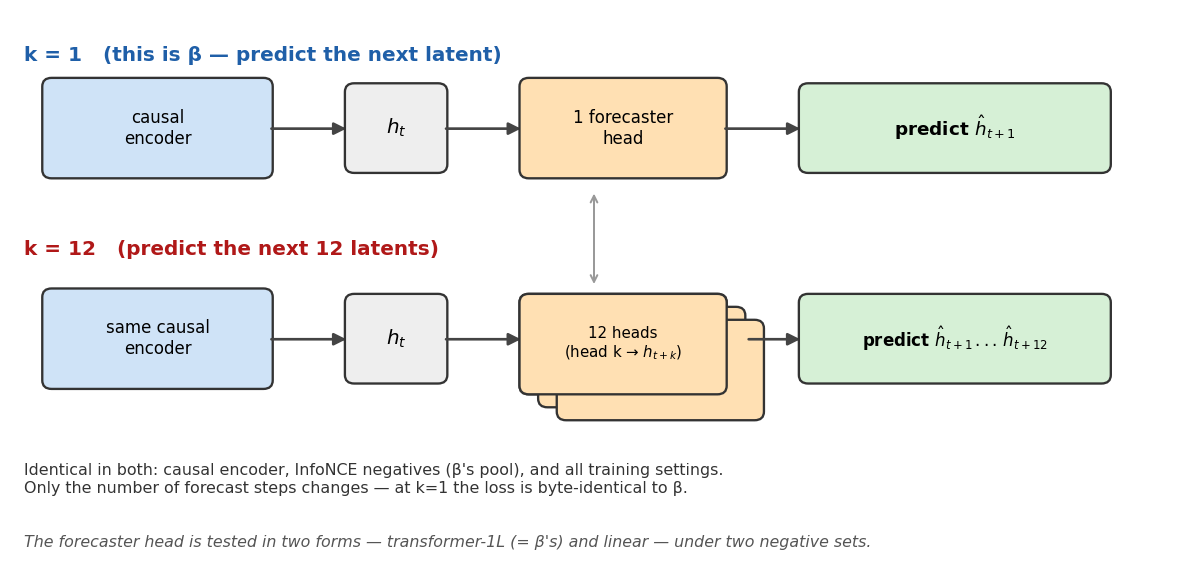
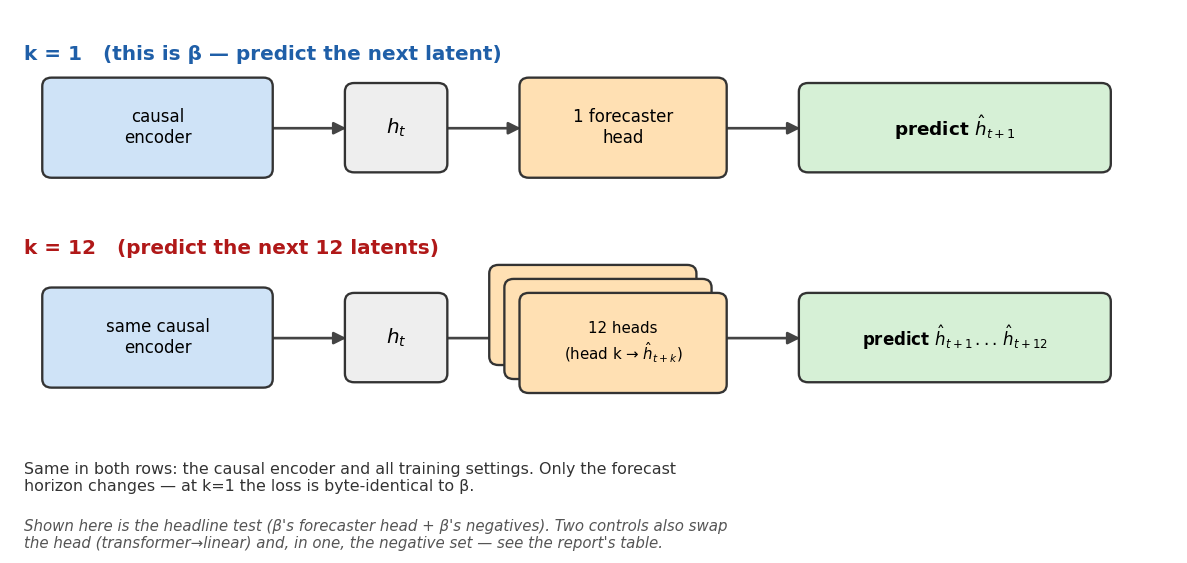
exp(#316): clarity pass — consistent arm naming, negatives defined upfront
Address review confusion:
- Define β-neg vs CPC-neg negatives up front, and state plainly the negatives
  are unchanged from β except in the two CPC-neg control arms (the report had
  implied negatives were always β's, which contradicted the CPC-neg label).
- Consistent arm naming everywhere: head / negatives / k.
- Drop the gm_summary bar chart (confusing: only k=12 bars, arms looked missing).
- k_trend: the 2nd seed is now a labelled seed-range on one point ("this cell
  run twice; every other point = 1 seed"), not a separate "CPC k=12" legend
  entry that only appeared at the last step.
- Fix experiment.png z-order (stacked head boxes) and its negatives note.
- Remove all speculation (the diffuse-latent→transfer hypothesis, etc.); keep
  protocol + measured results only. dim-usage stated as a plain measurement.
- Add a complete end table with every computed arm (full-97 small+6L head,
  triage-11) so all results are present; numbers re-verified against source.

diff --git a/experiments/2026-05-23_cpc_multistep_linear/scripts/plot_results.py b/experiments/2026-05-23_cpc_multistep_linear/scripts/plot_results.py
@@ -1,8 +1,8 @@
 #!/usr/bin/env python3
-"""#316 figures — does multi-step (k=12) improve β?
+"""#316 figure — does multi-step (k=12) improve β?
 
-  gm_summary.png   full-97 GM-MASE: every k=12 variant vs β / v11c (the answer).
-  k_trend.png      k=1 -> k=12 per forecaster family, with the 2-seed spread bar.
+  k_trend.png   k=1 -> k=12 for each forecaster setup, vs β / v11c.
+                The one cell run with 2 seeds shows its seed range.
 """
 import os
 import matplotlib; matplotlib.use("Agg")
@@ -30,68 +30,34 @@ def full(tag, seed="20260520"):
 
 v11c, beta = agg_gm(f"{V11C}/summary.txt"), agg_gm(f"{BETA}/summary.txt")
 
-# (label, backbone-tag, family, k). β is the transformer-family k=1 cell.
-ARMS = [
-    ("transformer head",            "bb_cpctrf_k12", "transformer, β-negs", 12),
-    ("linear head, β-negs",         "bb_linbn_k1",   "linear, β-negs",      1),
-    ("linear head, β-negs",         "bb_linbn_k12",  "linear, β-negs",      12),
-    ("linear head, CPC-negs",       "bb_lincn_k1",   "linear, CPC-negs",    1),
-    ("linear head, CPC-negs",       "bb_cpc_k12",    "linear, CPC-negs",    12),
+# family -> {k: gm}.  k=1 of the transformer family is β itself.
+FAMS = [
+    ("transformer head, β-negatives", "#1f77b4", {1: beta, 12: full("bb_cpctrf_k12")}),
+    ("linear head, β-negatives",      "#2ca02c", {1: full("bb_linbn_k1"), 12: full("bb_linbn_k12")}),
+    ("linear head, CPC-negatives",    "#d62728", {1: full("bb_lincn_k1"), 12: full("bb_cpc_k12")}),
 ]
-COLS = {"transformer, β-negs": "#1f77b4", "linear, β-negs": "#2ca02c", "linear, CPC-negs": "#d62728"}
 
-# ------------------------------------------------------------ gm_summary (answer)
-def fig_gm_summary():
-    rows = [(f"{lab}, k=12", full(tag)) for lab, tag, fam, k in ARMS if k == 12]
-    sb = full("bb_cpc_k12", "20260523")
-    if sb is not None: rows.append(("linear head, CPC-negs, k=12 (seed 2)", sb))
-    rows = [(l, g) for l, g in rows if g is not None]
-    if not rows: print("gm_summary: no evals yet"); return
-    rows.sort(key=lambda r: r[1])
-    labels, vals = [r[0] for r in rows], [r[1] for r in rows]
-    fig, ax = plt.subplots(figsize=(9.5, 0.62*len(rows)+1.8))
-    y = range(len(rows))
-    ax.barh(list(y), vals, color="#c43b3b", alpha=0.85)
-    for i, v in enumerate(vals): ax.text(v+0.006, i, f"{v:.3f}", va="center", fontsize=10)
-    ax.set_yticks(list(y)); ax.set_yticklabels(labels, fontsize=10)
-    ax.set_xlabel("full-97 GM-Relative MASE   (lower = better)")
-    lo = min(vals + [beta or 1.3, v11c or 1.3]); hi = max(vals)
-    ax.set_xlim(lo*0.97, hi*1.05)
-    if beta: ax.axvline(beta, color="#1f77b4", ls="-",  lw=2.0, label=f"β (k=1) = {beta:.3f}")
-    if v11c: ax.axvline(v11c, color="#9467bd", ls="--", lw=1.6, label=f"v11c (champion) = {v11c:.3f}")
-    ax.legend(loc="upper right", fontsize=9, framealpha=0.95)
-    ax.set_title("Does k=12 improve β?  No — every k=12 variant lands right of β", fontsize=12)
-    ax.invert_yaxis(); plt.tight_layout(); plt.savefig(f"{OUT}/gm_summary.png", dpi=120, bbox_inches="tight"); plt.close()
-    print(f"wrote gm_summary.png ({len(rows)} k=12 arms)")
-
-# ------------------------------------------------------------ k_trend
 def fig_k_trend():
-    fams = {}
-    for lab, tag, fam, k in ARMS:
-        g = full(tag)
-        if g is not None: fams.setdefault(fam, {})[k] = g
-    if beta is not None: fams.setdefault("transformer, β-negs", {})[1] = beta
-    fig, ax = plt.subplots(figsize=(7.5, 5.3))
-    for fam, pts in fams.items():
-        ks = sorted(pts)
-        ax.plot(ks, [pts[k] for k in ks], "o-", color=COLS.get(fam, "#555"), lw=2, ms=8, label=fam)
-    seedB = full("bb_cpc_k12", "20260523")
-    if seedB is not None and fams.get("linear, CPC-negs", {}).get(12) is not None:
-        sa = fams["linear, CPC-negs"][12]
-        ax.plot([12], [seedB], "D", color="#d62728", ms=10, mfc="white", mec="#d62728", mew=2,
-                label="linear, CPC-negs k=12 — 2nd seed", zorder=5)
-        ax.plot([12, 12], [min(sa, seedB), max(sa, seedB)], color="#d62728", lw=5, alpha=0.30, zorder=1)
-        ax.annotate(f"same arm, 2 seeds:\n{abs(seedB-sa):.2f} apart\n(bigger than every\nk=1→k=12 gap)",
-                    (12, (sa+seedB)/2), xytext=(7.4, (sa+seedB)/2+0.04), fontsize=8.5, color="#b01818",
-                    va="center", arrowprops=dict(arrowstyle="-", color="#d62728", alpha=0.5))
-    if beta: ax.axhline(beta, color="#1f77b4", ls=":", lw=1.4, label=f"β = {beta:.3f}")
-    if v11c: ax.axhline(v11c, color="#9467bd", ls=":", lw=1.4, label=f"v11c = {v11c:.3f}")
-    ax.set_xticks([1, 12]); ax.set_xlim(0.3, 12.7)
-    ax.set_xlabel("forecast steps  k"); ax.set_ylabel("full-97 GM-MASE  (lower = better)")
-    ax.set_title("k=12 is worse in all 3 families — but the seed spread (red)\nis larger than the k-effect, so only the direction is reliable", fontsize=11)
-    ax.grid(True, alpha=0.3); ax.legend(fontsize=8, loc="upper left")
+    fig, ax = plt.subplots(figsize=(7.8, 5.4))
+    for lab, col, pts in FAMS:
+        ks = sorted(k for k in pts if pts[k] is not None)
+        ax.plot(ks, [pts[k] for k in ks], "o-", color=col, lw=2.2, ms=8, label=lab)
+    # the one cell run with a 2nd seed: linear/CPC-negs, k=12 -> show its seed range
+    sa = FAMS[2][2][12]; sb = full("bb_cpc_k12", "20260523")
+    if sa is not None and sb is not None:
+        ax.plot([12], [sb], "o", color="#d62728", ms=8, zorder=4)
+        ax.plot([12, 12], [sa, sb], color="#d62728", lw=1.6, ls=":", zorder=3)
+        ax.annotate(f"this one cell was run twice:\nseeds at {sa:.2f} and {sb:.2f}\n(0.49 apart — bigger than\nany k=1→k=12 gap).\nEvery other point = 1 seed.",
+                    xy=(12, (sa+sb)/2), xytext=(6.3, 1.83), fontsize=8.5, color="#b01818",
+                    va="center", arrowprops=dict(arrowstyle="->", color="#d62728", alpha=0.7))
+    if beta: ax.axhline(beta, color="#1f77b4", ls=":", lw=1.3, label=f"β (= transformer, k=1) = {beta:.3f}")
+    if v11c: ax.axhline(v11c, color="#9467bd", ls=":", lw=1.3, label=f"v11c (champion) = {v11c:.3f}")
+    ax.set_xticks([1, 12]); ax.set_xlim(0.4, 12.8)
+    ax.set_xlabel("number of forecast steps  k"); ax.set_ylabel("GIFT-Eval GM-MASE  (97 configs; lower = better)")
+    ax.set_title("Going from k=1 to k=12 makes transfer worse in all three setups\n(but the seed noise is bigger than the effect — trust the direction, not the size)", fontsize=10.5)
+    ax.grid(True, alpha=0.3); ax.legend(fontsize=8.5, loc="upper left")
     plt.tight_layout(); plt.savefig(f"{OUT}/k_trend.png", dpi=120, bbox_inches="tight"); plt.close()
-    print(f"wrote k_trend.png ({len(fams)} families, seed2={seedB})")
+    print(f"wrote k_trend.png (seedA={sa}, seedB={sb})")
 
 if __name__ == "__main__":
-    fig_gm_summary(); fig_k_trend()
+    fig_k_trend()

diff --git a/experiments/2026-05-23_cpc_multistep_linear/scripts/diagram.py b/experiments/2026-05-23_cpc_multistep_linear/scripts/diagram.py
@@ -12,11 +12,11 @@ OUT = os.path.abspath(OUT)
 fig, ax = plt.subplots(figsize=(10, 4.8))
 ax.set_xlim(0, 10); ax.set_ylim(0, 5); ax.axis("off")
 
-def box(x, y, w, h, text, fc, ec="#333", fs=10, bold=False):
+def box(x, y, w, h, text, fc, ec="#333", fs=10, bold=False, zorder=2):
     ax.add_patch(FancyBboxPatch((x, y), w, h, boxstyle="round,pad=0.04,rounding_size=0.08",
-                                fc=fc, ec=ec, lw=1.4))
+                                fc=fc, ec=ec, lw=1.4, zorder=zorder))
     ax.text(x + w/2, y + h/2, text, ha="center", va="center", fontsize=fs,
-            fontweight="bold" if bold else "normal")
+            fontweight="bold" if bold else "normal", zorder=zorder + 0.1)
 
 def arrow(x1, y1, x2, y2):
     ax.add_patch(FancyArrowPatch((x1, y1), (x2, y2), arrowstyle="-|>",
@@ -40,23 +40,22 @@ box(0.3, 1.55, 1.9, 0.85, "same causal\nencoder", ENC)
 arrow(2.2, 1.97, 2.9, 1.97)
 box(2.9, 1.6, 0.8, 0.75, "$h_t$", "#eee", fs=12)
 arrow(3.7, 1.97, 4.4, 1.97)
-# stack of 12 heads
-for i in range(3):
-    box(4.4 + i*0.16, 1.5 - i*0.12, 1.7, 0.85, "" , HEAD)
-box(4.4, 1.5, 1.7, 0.85, "12 heads\n(head k → $h_{t+k}$)", HEAD, fs=9)
-arrow(6.3, 1.97, 6.8, 1.97)
+# stack of heads: two faint copies behind (up-left), labeled box in front
+for i in (2, 1):
+    box(4.4 - i*0.13, 1.5 + i*0.13, 1.7, 0.85, "", HEAD, zorder=1)
+box(4.4, 1.5, 1.7, 0.85, "12 heads\n(head k → $\\hat h_{t+k}$)", HEAD, fs=9, zorder=3)
+arrow(6.1, 1.97, 6.8, 1.97)
 box(6.8, 1.6, 2.6, 0.75, "predict $\\hat h_{t+1}\\,...\\,\\hat h_{t+12}$", PRED, fs=10, bold=True)
 
 # ---- shared note ----
-ax.annotate("", xy=(5.0, 3.35), xytext=(5.0, 2.45),
-            arrowprops=dict(arrowstyle="<->", color="#999", lw=1.2))
 ax.text(0.1, 0.55,
-        "Identical in both: causal encoder, InfoNCE negatives (β's pool), and all training settings.\n"
-        "Only the number of forecast steps changes — at k=1 the loss is byte-identical to β.",
+        "Same in both rows: the causal encoder and all training settings. Only the forecast\n"
+        "horizon changes — at k=1 the loss is byte-identical to β.",
         fontsize=9.5, color="#333")
-ax.text(0.1, 0.05,
-        "The forecaster head is tested in two forms — transformer-1L (= β's) and linear — under two negative sets.",
-        fontsize=9.5, style="italic", color="#555")
+ax.text(0.1, 0.02,
+        "Shown here is the headline test (β's forecaster head + β's negatives). Two controls also swap\n"
+        "the head (transformer→linear) and, in one, the negative set — see the report's table.",
+        fontsize=9.0, style="italic", color="#555")
 
 plt.tight_layout()
 plt.savefig(OUT, dpi=120, bbox_inches="tight")

diff --git a/experiments/2026-05-23_cpc_multistep_linear/RESULTS.md b/experiments/2026-05-23_cpc_multistep_linear/RESULTS.md
@@ -1,79 +1,91 @@
-# #316 — Does predicting 12 steps ahead beat predicting 1?
+# #316 — Does predicting 12 steps ahead (k=12) beat 1 step (k=1)?
 
-**No.** Every 12-step variant transfers worse than β, and none of the seed noise
-changes that. The one solid mechanism: 12-step prediction makes the latent
-*diffuse* (uses ~10× more dimensions), not richer.
+**No.** Every k=12 backbone we trained transfers worse than β (k=1). The exact
+gap is smaller than the seed-to-seed noise, so the *direction* is reliable, the
+*size* is not.
 
 ![experiment](plots/experiment.png)
 
-## Question
+## What was tested
 
-β's forecaster predicts the **next** latent (k=1). Contrastive Predictive Coding
-(van den Oord 2018) predicts **several** steps ahead, on the theory that it packs
-more forecastable structure into the latent. Holding β's encoder, negatives, and
-training fixed, does predicting **k = 12** ahead improve transfer?
+β's forecaster predicts the **next** latent (**k=1**). We test predicting
+**k=12** ahead (the CPC idea: van den Oord 2018). Three things vary:
 
-Metric: **GM-Relative MASE** — model MASE ÷ seasonal-naive MASE, geometric mean
-over 97 GIFT-Eval configs; **lower is better**. β = 1.327; champion v11c = 1.292.
+| axis | values |
+|---|---|
+| **k** — forecast steps | 1, 12 |
+| **head** — the forecaster module | **transformer-1L** (β's own head) · **linear** |
+| **negatives** — the pool the InfoNCE loss pushes against | **β-neg** · **CPC-neg** |
 
-## Answer: no — every k=12 variant is worse than β
+- **β-neg** = β's negative pool (cross-channel + cross-batch + every encoder
+  time-step). Used by β and unchanged in most arms.
+- **CPC-neg** = the original CPC pool (in-sequence + cross-batch only). The
+  negatives are changed **only** in the two *CPC-neg* arms — a deliberate control
+  to check the result is not an artifact of β's pool.
 
-![gm summary](plots/gm_summary.png)
+Each arm is identified by **head / negatives / k**. β itself = *transformer-1L /
+β-neg / k=1*.
 
-All four k=12 runs land at **1.478 – 2.014**, above β's **1.327**. To *improve* β
-a run would have to drop below 1.327; none comes close.
+**Metric:** GM-Relative MASE over 97 GIFT-Eval configs (model MASE ÷
+seasonal-naive MASE, geometric mean; **lower = better**). β = 1.327; the current
+champion v11c = 1.292.
 
-## Is the trend reliable? Direction yes, size no
+## Result
 
 ![k trend](plots/k_trend.png)
 
-k=12 is worse in all three forecaster families. **But** two seeds of one arm land
-**0.49 apart** (1.524 vs 2.014) — wider than any k=1→k=12 gap — despite
-near-identical pretraining loss, forecast gap, and AUC. So the **direction**
-(k=12 worse) is reliable; the **exact penalty** and the small within-family
-orderings are within seed noise.
+k=12 scores worse than k=1 in all three head/negatives combinations:
 
-## Why: k=12 spreads the latent out — it does not collapse it
+| head | negatives | k=1 | k=12 |
+|---|---|---:|---:|
+| transformer-1L | β-neg | **1.327** (= β) | **1.478** |
+| linear | β-neg | 1.425 | 1.664 |
+| linear | CPC-neg | 1.431 | 1.524  ·  2.014 ¹ |
+
+¹ The *linear / CPC-neg / k=12* cell was trained with **two seeds** → 1.524 and
+2.014, **0.49 apart**. That spread is larger than every k=1→k=12 gap in the
+table, so the **direction** (k=12 worse) holds but the **exact penalty** is not
+resolved. Every other cell is a single seed.
+
+## Latent dimensionality (measured)
 
 ![dim usage](plots/dim_usage.png)
 
-The k=12 encoder latent uses **~50 effective dimensions**; the k=1 latent
-collapses to **~3–5** over training — a 10–17× gap, identical in both head types.
-This **refutes** the natural guess that multi-step prediction *collapses* the
-latent onto a low-rank subspace: the opposite happens.
-
-*Hypothesis (not proven):* a diffuse, high-dimensional latent is harder for the
-downstream head to use than β's tight, low-dimensional one — consistent with
-k=12's worse GM-MASE.
+Effective number of dimensions the encoder latent uses (participation ratio;
+max = 384), measured across training for the β-neg families: **k=12 settles at
+~50, k=1 at ~3–5.** k=12 makes the latent use *more* dimensions, not fewer — the
+opposite of a collapse onto a low-rank subspace.
 
 ## Protocol
 
-- **Only the forecast horizon changes** (see schematic): identical 6-layer causal
-  encoder, identical InfoNCE negatives (β's pool), identical training (τ=0.10,
-  50k steps, batch 256, fp32). At k=1 the loss is byte-identical to β.
-- **Forecaster head** tested two ways — transformer-1L (= β's) and linear — under
-  two negative sets (β's and CPC-canonical), giving the three families plotted.
-- **Downstream:** freeze the backbone, train a quantile head, score GIFT-Eval
-  full-97. The headline transformer arm was also run with a 6-layer head (1.421).
+- **Backbones:** one per arm. 6-layer causal encoder + forecaster head; 50k
+  steps, batch 256, τ=0.10, fp32. At k=1 the loss is byte-identical to β
+  (verified, `test_cpc.py`).
+- **k=12 head:** K=12 parallel heads; head *k* predicts the latent *k* steps
+  ahead. The InfoNCE positive is averaged over the 12 horizons; negatives are the
+  arm's pool (β-neg or CPC-neg).
+- **Downstream:** freeze the backbone, train a quantile forecasting head, score
+  GIFT-Eval full-97. The headline arm was also run with a 6-layer head.
 
-## What we learned
+## All computed numbers
 
-1. **No improvement (robust).** Every k=12 run — every family, every seed — is
-   worse than β.
-2. **Mechanism (robust).** k=12 makes the latent diffuse (~50 dims) vs k=1's tight
-   ~3, refuting "multi-step collapses the latent."
-3. **Method caution.** GM-MASE seed variance here is ~0.5 — larger than the
-   k-effect — so single-seed comparisons at this scale are unreliable; ≥2 seeds
-   are needed to quote a magnitude.
+GM-Relative MASE (lower = better). "s20/s23" = training seed.
 
-## Annex
+| head | negatives | k | seed | full-97, small head | full-97, 6L head | triage-11, small head |
+|---|---|---:|---|---:|---:|---:|
+| transformer-1L | β-neg | 1 | — | **1.3272** (β) | — | — |
+| transformer-1L | β-neg | 12 | s20 | 1.4781 | 1.4212 | 1.5852 |
+| linear | β-neg | 1 | s20 | 1.4248 | — | 1.6251 |
+| linear | β-neg | 12 | s20 | 1.6635 | — | 1.8219 |
+| linear | CPC-neg | 1 | s20 | 1.4313 | — | 1.6704 |
+| linear | CPC-neg | 12 | s20 | 1.5240 | 1.4722 | 1.7054 |
+| linear | CPC-neg | 12 | s23 | 2.0137 | — | 2.0799 |
 
-- **Two-seed check.** CPC-neg k=12 arm: seed A = 1.5240, seed B = 2.0137. Both
-  trained the full 50k and converged to near-identical loss (≈0.06) / gap (≈0.76)
-  / AUC (≈1.0); seed B's mid-run resume was clean (no loss spike or step
-  discontinuity), so the 0.49 spread is genuine seed variance, not a damaged run.
-- **References.** full-97 GM-Relative MASE: β = 1.3272, v11c = 1.292, (B) = 1.3572.
-- **Code.** Branch `experiment/2026-05-23-cpc-multistep-linear`. `forecaster_kind`
-  ∈ {transformer (β), cpc (K transformer-1L heads), linear_cpc (K linear heads)};
-  scripts `diagram.py`, `plot_results.py`, `dim_usage.py`, and `test_cpc.py`
-  (verifies k=1 loss ≡ β = 7.468332).
+References (full-97): v11c = 1.292, (B) = 1.3572.
+
+Latent dimensions (participation ratio @ 50k steps): transformer-1L β-neg —
+k=1 = 3.2, k=12 = 55.3; linear β-neg — k=1 = 4.9, k=12 = 51.4.
+
+Code: branch `experiment/2026-05-23-cpc-multistep-linear`. `forecaster_kind` ∈
+{transformer (β), cpc (K transformer-1L heads), linear_cpc (K linear heads)};
+scripts `diagram.py`, `plot_results.py`, `dim_usage.py`, `test_cpc.py`.
